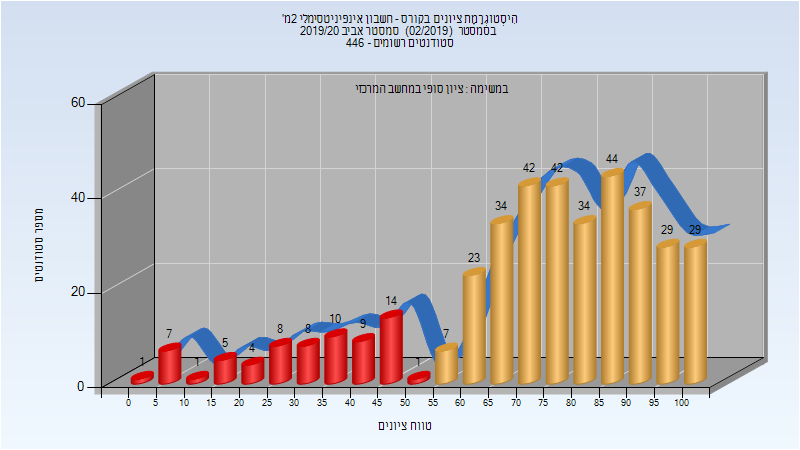
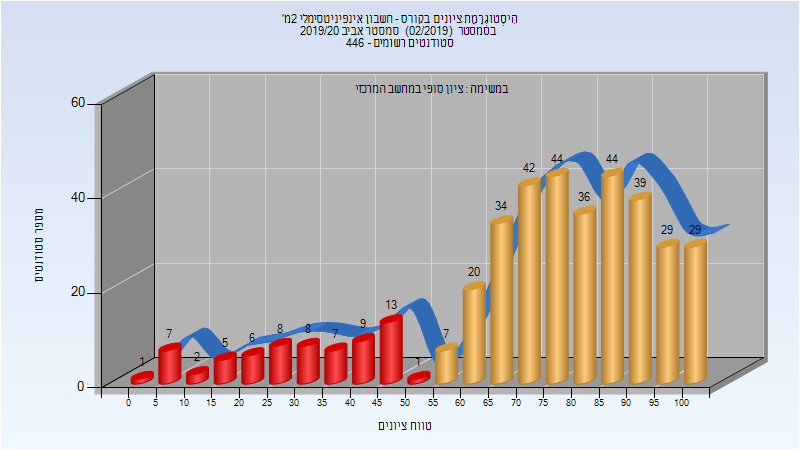
Deploy michael-maltsev/technion-histograms to github.com/michael-maltsev/technion-histograms.git:gh-pages

diff --git a/104032/index.html b/104032/index.html
@@ -1209,13 +1209,13 @@
 </thead>
 <tbody>
 <tr>
-<td>389</td>
-<td>321/68</td>
+<td>391</td>
+<td>324/67</td>
 <td>83</td>
 <td>3</td>
 <td>100</td>
-<td>72.584</td>
-<td>76</td>
+<td>72.765</td>
+<td>77</td>
 </tr>
 </tbody>
 </table>

diff --git a/104032/README.md b/104032/README.md
@@ -377,5 +377,5 @@
 
 | סטודנטים | עברו/נכשלו | אחוז עוברים | ציון מינימלי | ציון מקסימלי | ממוצע | חציון |
 | ---- | ---- | ---- | ---- | ---- | ---- | ---- |
-| 389 | 321/68 | 83 | 3 | 100 | 72.584 | 76 |
+| 391 | 324/67 | 83 | 3 | 100 | 72.765 | 77 |
 
